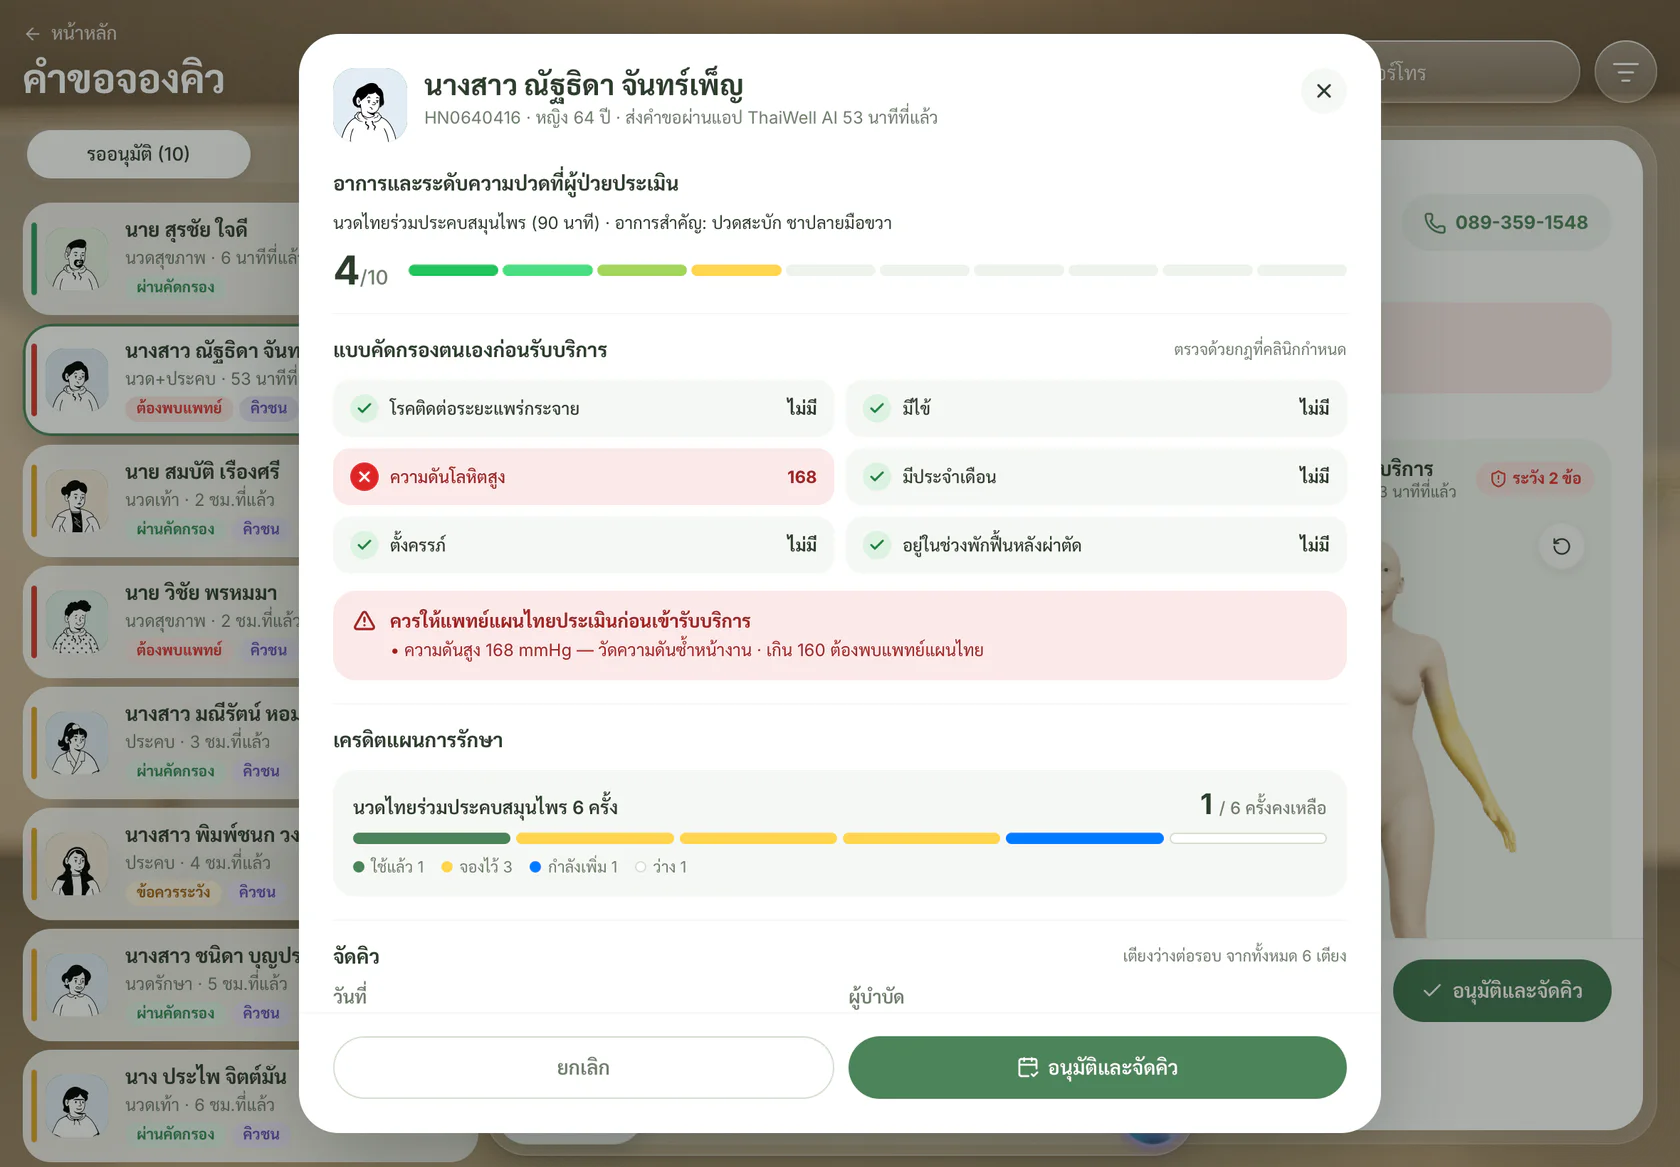
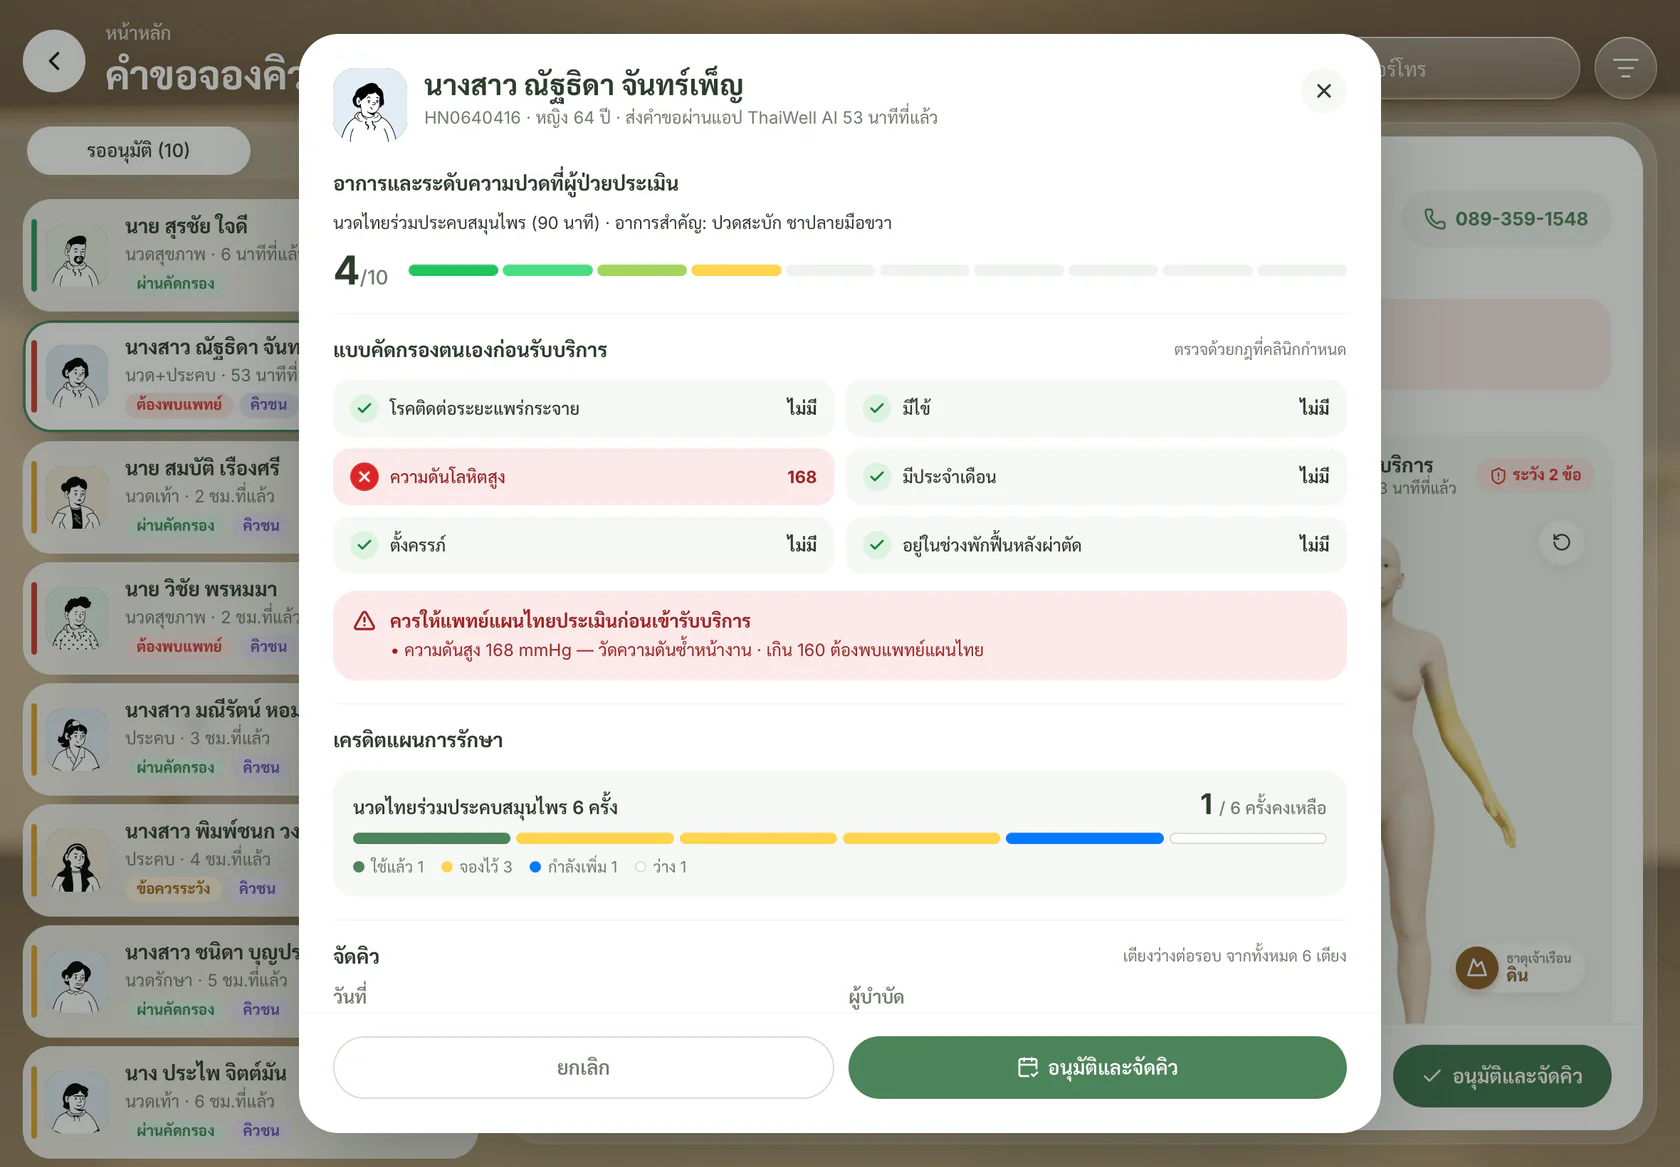
Sub-pages share one back-button header (BackLead); booking requests page hides the dock; manual re-captured

diff --git a/src/pages/patients/Patients.tsx b/src/pages/patients/Patients.tsx
@@ -1,10 +1,11 @@
 import { useEffect, useMemo, useState } from "react";
 import { useLocation, useNavigate, useParams, useSearchParams } from "react-router-dom";
 import { motion } from "framer-motion";
-import { X, Plus, Sparkles, Hand, Leaf, TriangleAlert, ChevronLeft, Activity, Ban, Thermometer, Scissors, Droplet, Zap, Bandage, Baby, IdCard, PhoneCall, HeartPulse, CreditCard, Check, ShieldAlert, ShieldCheck, Maximize2, Minimize2, CalendarRange, ClipboardPlus, Hourglass, ListFilter, UserPlus, UsersRound } from "lucide-react";
+import { X, Plus, Sparkles, Hand, Leaf, TriangleAlert, Activity, Ban, Thermometer, Scissors, Droplet, Zap, Bandage, Baby, IdCard, PhoneCall, HeartPulse, CreditCard, Check, ShieldAlert, ShieldCheck, Maximize2, Minimize2, CalendarRange, ClipboardPlus, Hourglass, ListFilter, UserPlus, UsersRound } from "lucide-react";
 import { useStore } from "../../store/store";
 import { Avatar, Badge, Button, EmptyState, Field, IconButton, Input, SearchField, Select, Textarea, useToast } from "../../design-system";
 import { WorkPage } from "../../layout/WorkPage";
+import { BackLead } from "../../layout/BackLead";
 import { PatientDrawer, PatientHealth } from "../../features/PatientDrawer";
 import { PainMini } from "../../features/RecordCards";
 import { creditInfo } from "../../data/domain";
@@ -519,17 +520,7 @@ function PatientForm({ onClose, onCreated, edit }: { onClose: () => void; onCrea
       eyebrow={edit ? `ผู้มารับบริการ · ${edit.hn}` : "ผู้มารับบริการ"}
       title={edit ? "แก้ไขข้อมูลผู้รับบริการ" : "เพิ่มผู้รับบริการใหม่"}
       bell={false}
-      lead={
-        <div className="apg__lead">
-          <IconButton label="ย้อนกลับ" variant="white" onClick={onClose}>
-            <ChevronLeft size={22} strokeWidth={2} />
-          </IconButton>
-          <div className="work__titles">
-            <div className="work__eyebrow">{edit ? `ผู้มารับบริการ · ${edit.hn}` : "ผู้มารับบริการ"}</div>
-            <h1 className="work__title">{edit ? "แก้ไขข้อมูลผู้รับบริการ" : "เพิ่มผู้รับบริการใหม่"}</h1>
-          </div>
-        </div>
-      }
+      lead={<BackLead eyebrow={edit ? `ผู้มารับบริการ · ${edit.hn}` : "ผู้มารับบริการ"} title={edit ? "แก้ไขข้อมูลผู้รับบริการ" : "เพิ่มผู้รับบริการใหม่"} onBack={onClose} />}
     >
       <div className="apg ap">
         <div className="apg__bar">

diff --git a/src/pages/requests/Requests.tsx b/src/pages/requests/Requests.tsx
@@ -1,11 +1,12 @@
 import { useEffect, useMemo, useState } from "react";
-import { Link, useSearchParams } from "react-router-dom";
+import { useNavigate, useSearchParams } from "react-router-dom";
 import { AnimatePresence, motion } from "framer-motion";
-import { ArrowLeft, CalendarClock, CalendarCheck2, CalendarRange, Check, CircleCheck, CircleX, History, ListFilter, MessageSquareText, Phone, ShieldAlert, ShieldCheck, Stethoscope, UserRound, X } from "lucide-react";
+import { CalendarClock, CalendarCheck2, CalendarRange, Check, CircleCheck, CircleX, History, ListFilter, MessageSquareText, Phone, ShieldAlert, ShieldCheck, Stethoscope, UserRound, X } from "lucide-react";
 import { clsx } from "clsx";
 import { useStore } from "../../store/store";
 import { Avatar, Badge, Button, EmptyState, SearchField, Segmented, spring } from "../../design-system";
 import { WorkPage } from "../../layout/WorkPage";
+import { BackLead } from "../../layout/BackLead";
 import { PainMini } from "../../features/RecordCards";
 import { ApproveDialog, RejectDialog } from "../../features/RequestDialogs";
 import { BookDialog, type BookPreset } from "../../features/BookDialog";
@@ -30,6 +31,7 @@ const clock = (iso: string) => new Date(iso).toLocaleTimeString("th-TH", { hour:
 export default function Requests() {
   const store = useStore();
   const [params, setParams] = useSearchParams();
+  const navigate = useNavigate();
   const tab = (params.get("tab") as Tab) ?? "pending";
   const [query, setQuery] = useState("");
   const [pf, setPf] = useState<PendingFilter>("all");
@@ -86,12 +88,9 @@ export default function Requests() {
 
   return (
     <WorkPage
-      eyebrow={
-        <Link to="/" className="back-link">
-          <ArrowLeft size={14} /> หน้าหลัก
-        </Link>
-      }
+      eyebrow="หน้าหลัก"
       title="คำขอจองคิว"
+      lead={<BackLead eyebrow="หน้าหลัก" title="คำขอจองคิว" onBack={() => navigate("/")} />}
       bell={false}
       actions={
         <>

diff --git a/src/layout/BackLead.tsx b/src/layout/BackLead.tsx
@@ -1,0 +1,18 @@
+import type { ReactNode } from "react";
+import { ChevronLeft } from "lucide-react";
+import { IconButton } from "../design-system";
+
+/** sub-page header: round back button beside the eyebrow + title (same on every sub-page) */
+export function BackLead({ eyebrow, title, onBack }: { eyebrow: ReactNode; title: ReactNode; onBack: () => void }) {
+  return (
+    <div className="apg__lead">
+      <IconButton label="ย้อนกลับ" variant="white" onClick={onBack}>
+        <ChevronLeft size={22} strokeWidth={2} />
+      </IconButton>
+      <div className="work__titles">
+        <div className="work__eyebrow">{eyebrow}</div>
+        <h1 className="work__title">{title}</h1>
+      </div>
+    </div>
+  );
+}

diff --git a/src/layout/AppShell.tsx b/src/layout/AppShell.tsx
@@ -126,8 +126,8 @@ export function AppShell() {
         </Suspense>
       </AnimatePresence>
 
-      {/* sub-pages (register / edit) are full-screen tasks: no dock, they have their own back button */}
-      {!/^\/patients\/(new|[^/]+\/edit)$/.test(location.pathname) && <Dock onAssistant={() => setSpot(true)} />}
+      {/* sub-pages (register / edit / booking requests) are full-screen tasks: no dock, they have their own back button */}
+      {!/^\/(patients\/(new|[^/]+\/edit)|requests)$/.test(location.pathname) && <Dock onAssistant={() => setSpot(true)} />}
       <Suspense fallback={null}>{spotEver && <AISpotlight open={spot} onClose={() => setSpot(false)} />}</Suspense>
       <Tour />
         </>

diff --git a/src/layout/shell.css b/src/layout/shell.css
@@ -670,3 +670,13 @@
 .aib.is-busy .ai2__aura {
   animation-duration: 1.6s;
 }
+/* sub-page header with a round back button */
+.apg__lead {
+  display: flex;
+  align-items: center;
+  gap: 14px;
+  min-width: 0;
+}
+.apg__lead {
+  flex: 1 1 280px;
+}

diff --git a/src/pages/requests/requests.css b/src/pages/requests/requests.css
@@ -668,3 +668,10 @@
 .rq2__kv .rq__staff {
   justify-content: flex-start;
 }
+/* no dock on this sub-page: lists and detail run to the bottom */
+.rq .scroll-y {
+  padding-bottom: 16px !important;
+}
+.rq__foot {
+  padding-bottom: 16px;
+}
